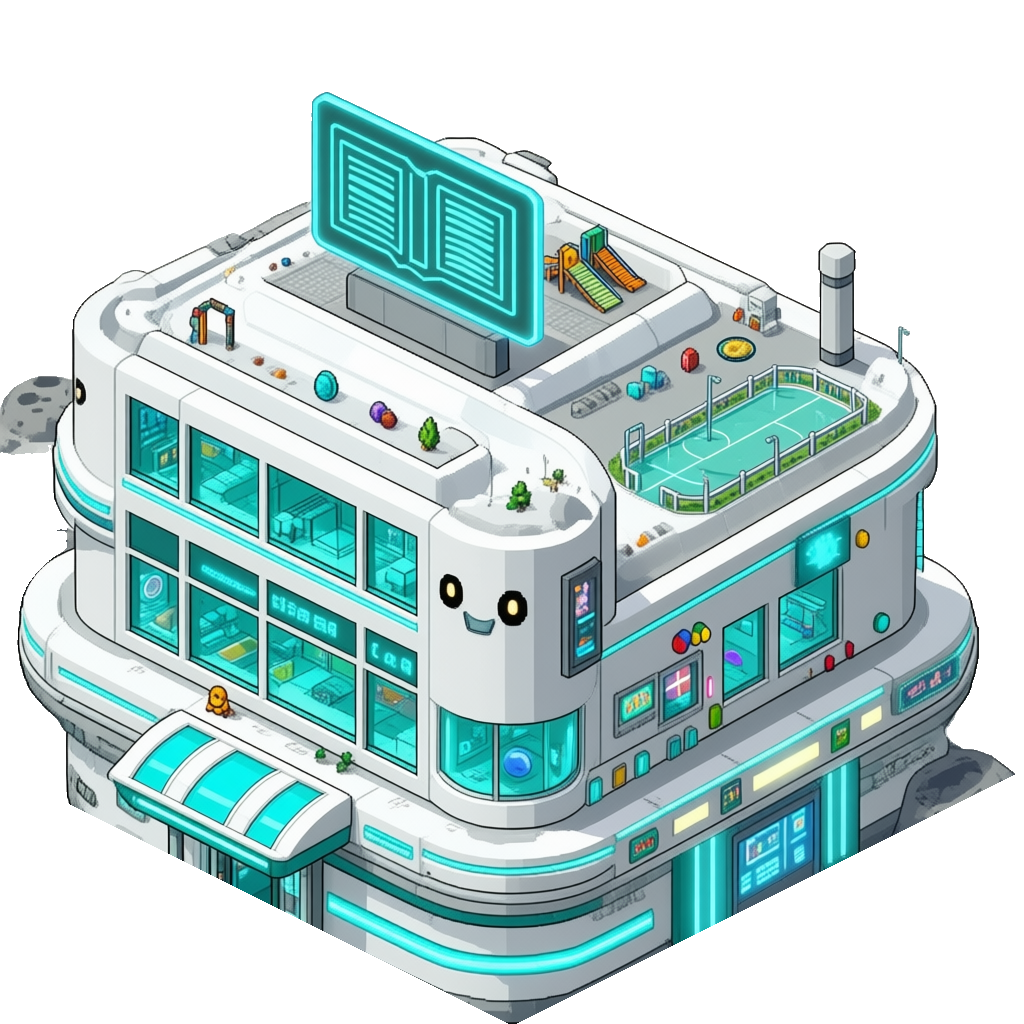
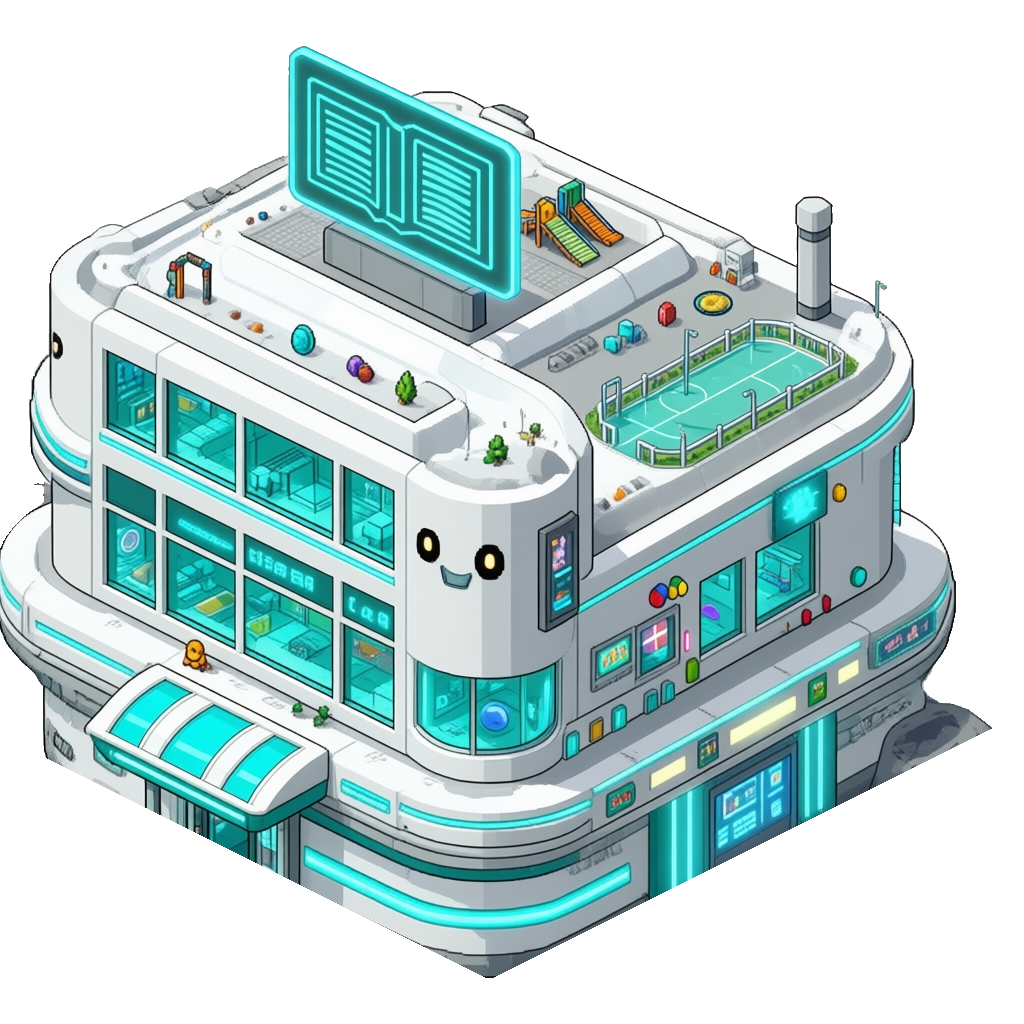
Add hover taxis, moon trains and magnet rails in space, and wider rails
The space taxi depot sends hover taxis, and the space train station sends
moon trains onto magnet rails: a dark guideway with a glowing blue line
along each track. Rails are now most of a square wide and trains about a
third bigger. Also converts the new space buildings and gives them names.

diff --git a/src/art/rails.js b/src/art/rails.js
@@ -1,17 +1,17 @@
-// Railway squares, drawn by code: a bed of gravel a little more than half a square wide down the middle of the
+// Railway squares, drawn by code: a bed of gravel most of a square wide (0.84) down the middle of the
 // square with two tracks on it, one for each direction (trains keep to the right, like cars): wooden sleepers and
 // two steel rails each. A bend between two sides that meet in a corner is a
 // quarter circle round that corner. On a level crossing there is no gravel: the rails sit in a concrete deck.
 import { Pix, tileUV } from './raster.js';
 import { hash2 } from '../rng.js';
 
-export const TRACK = 0.155; // the middle of each track is this far from the middle of the bed, in squares
-const BED = 0.32; // half the width of the gravel bed (so the bed is 0.64 wide)
-const TIE = 0.11; // half the length of a sleeper
-const GAUGE = 0.06; // the rails are this far either side of the middle of their track
-const RAIL = 0.018; // half the width of a rail
-const TIE_EVERY = 0.2; // a sleeper every 0.2 squares
-const TIE_W = 0.075;
+export const TRACK = 0.2; // the middle of each track is this far from the middle of the bed, in squares
+const BED = 0.42; // half the width of the gravel bed (so the bed is 0.84 wide)
+const TIE = 0.14; // half the length of a sleeper
+const GAUGE = 0.077; // the rails are this far either side of the middle of their track
+const RAIL = 0.021; // half the width of a rail
+const TIE_EVERY = 0.22; // a sleeper every 0.22 squares
+const TIE_W = 0.085;
 
 // Where each side's track meets the edge of the square (u runs down-right, v down-left).
 const PORT = { ne: [0.5, 0], se: [1, 0.5], sw: [0.5, 1], nw: [0, 0.5] };
@@ -109,6 +109,40 @@ export function genRail(mask, crossing = false) {
         const c = edge ? (h < 0.5 ? 0x6e6a64 : 0x77736c) : h < 0.25 ? 0x8d8880 : h < 0.6 ? 0x9a958c : h < 0.85 ? 0xa7a297 : 0x7f7a72;
         pix.set(px, py, c);
       }
+    }
+  }
+  return pix;
+}
+
+// The space theme's railway (src/themes/space.js): a magnet rail. A smooth dark guideway in panels instead of gravel
+// and sleepers, and for each direction a raised metal beam with a glowing blue line along its middle. Same layout
+// of tracks as genRail, so the trains run on it the same way. On a level crossing only the beams show, set in the road.
+export function genMagRail(mask, crossing = false) {
+  const pix = new Pix(128, 64);
+  const pieces = railPieces(mask);
+  const co = [];
+  const BEAM = 0.09; // half the width of a beam
+  for (let py = 0; py < 64; py++) {
+    for (let px = 0; px < 128; px++) {
+      const [u, v] = tileUV(px, py);
+      if (u < 0 || u >= 1 || v < 0 || v >= 1) continue;
+      let bed = Infinity;
+      let beam = Infinity; // how far from the middle of the nearest beam
+      let joint = false;
+      for (const [d, t] of pieceCoords(pieces, u, v, co)) {
+        bed = Math.min(bed, Math.abs(d));
+        if (mod(t, 0.25) < 0.012) joint = true;
+        for (const side of [-1, 1]) beam = Math.min(beam, Math.abs(d - side * TRACK));
+      }
+      if (bed >= BED) continue;
+      if (beam < 0.013) pix.set(px, py, 0xd8f8ff); // the bright middle of the blue line
+      else if (beam < 0.026) pix.set(px, py, 0x4fd8ff);
+      else if (beam < BEAM - 0.014) pix.set(px, py, crossing ? 0x9aa3b1 : 0xc9d0da); // the beam's top
+      else if (beam < BEAM) pix.set(px, py, 0x7c8594); // its edge
+      else if (crossing) continue; // the road shows between the beams
+      else if (bed > BED - 0.035) pix.set(px, py, 0x8c94a3); // the guideway's light rim
+      else if (beam < BEAM + 0.03) pix.set(px, py, 0x4fd8ff, 70); // blue glow on the guideway beside the beam
+      else pix.set(px, py, joint ? 0x2e323b : 0x3a3f4a);
     }
   }
   return pix;

diff --git a/src/themes/space.js b/src/themes/space.js
@@ -7,11 +7,12 @@
 //   beach     : false = no sand between the land and the lava on a new map
 //   dayNight  : false = always day: no clock, no night lights
 //   weather   : false = it never rains
-//   rail      : false = no railways in the Road menu
+//   rail      : false = no railways in the Road menu (space has them: magnet rails, src/art/rails.js genMagRail)
 //   disasters : the disasters in the Disaster menu that this theme doesn't have
 //
 // Vehicles: every car on the roads is a space hover car. The police, fire and hospital stations send rovers and
 // spaceplanes (like the city's cars and helicopters). Settings that only the space theme has:
+//   patrol.hover : the patrol flies over the road like the hover cars (the hover taxis)
 //   patrol.deliver : a menu (e.g. 'Production'): each trip drives to one of its buildings, stops there a moment
 //            and drives home; with none of them to reach, it drives around like any patrol (src/agents/Traffic.js)
 //   pads   : landing pads, [{ px, py }] in the picture's own pixels (the middle of each pad), and the ships that
@@ -33,7 +34,7 @@ export const SPACE = {
     beach: false,
     dayNight: false,
     weather: false,
-    rail: false,
+    rail: true,
     noDisasters: ['tsunami'],
   },
 
@@ -82,10 +83,30 @@ export const SPACE = {
     pizzashop: 'Pizza shop',
     souvenirstore: 'Souvenir store',
     spaceairport: 'Space airport',
+    taxidepot: 'Taxi depot',
+    trainstation: 'Train station',
+    parkinglot: 'Parking lot',
+    eiffeltower: 'Eiffel Tower',
+    generalstatue: 'General statue',
+    japaneseshrine: 'Japanese shrine',
+    japanesetemple: 'Japanese temple',
+    statueofliberty: 'Statue of Liberty',
+    cloningfacility: 'Cloning facility',
+    electricitygenerator: 'Electricity generator',
+    wasterecycling: 'Waste recycling',
+    rollercoaster: 'Roller coaster',
+    carseller: 'Car seller',
+    clothingstore: 'Clothing store',
+    megamall: 'Mega mall',
+    movietheater: 'Movie theater',
   },
 
   buildings: {
     mountain: { lights: false },
+    // hover taxis, like the city's taxi center (hover: they fly over the road like the hover cars, src/agents/Traffic.js)
+    taxidepot: { patrol: { vehicle: 'hovertaxi', count: 3, rest: [3000, 8000], speed: 1.1, hover: true } },
+    // moon trains on the magnet rails touching it, like the city's train stations (src/agents/Trains.js)
+    trainstation: { train: 'moon' },
     policestation: {
       patrol: { vehicle: 'rover_police', count: 2, rest: [4000, 9000] },
       heli: { vehicle: 'spaceplane_police', pad: { px: 162, py: 143 }, job: 'spotlight', rest: [25000, 50000] },

diff --git a/src/data/vehicles.js b/src/data/vehicles.js
@@ -51,15 +51,18 @@ export const VEHICLES = {
   // the hover car: some of the traffic flies once the city has a Future lab
   hovercar: { sheet: 'hovercar-sheet.png', width: 56 },
   // trains: an engine and its wagons, one kind for each kind of train station
-  train_us_engine: { sheet: 'ustrain-engine-sheet.png', width: 88 },
-  train_us_wagon: { sheet: 'ustrain-wagon-sheet.png', width: 86 },
-  train_eu_engine: { sheet: 'eurotrain-engine-sheet.png', width: 88 },
-  train_eu_wagon: { sheet: 'eurotrain-wagon-sheet.png', width: 86 },
-  train_jp_engine: { sheet: 'bullettrain-engine-sheet.png', width: 88 },
-  train_jp_wagon: { sheet: 'bullettrain-wagon-sheet.png', width: 86 },
+  train_us_engine: { sheet: 'ustrain-engine-sheet.png', width: 114 },
+  train_us_wagon: { sheet: 'ustrain-wagon-sheet.png', width: 112 },
+  train_eu_engine: { sheet: 'eurotrain-engine-sheet.png', width: 114 },
+  train_eu_wagon: { sheet: 'eurotrain-wagon-sheet.png', width: 112 },
+  train_jp_engine: { sheet: 'bullettrain-engine-sheet.png', width: 114 },
+  train_jp_wagon: { sheet: 'bullettrain-wagon-sheet.png', width: 112 },
+  train_moon_engine: { sheet: 'moontrain-engine-sheet.png', width: 114 }, // the space train station's
+  train_moon_wagon: { sheet: 'moontrain-wagon-sheet.png', width: 112 },
   // space (src/themes/space.js): the hover cars on the roads, the police, fire and hospital rovers and spaceplanes,
   // the space airport's ships (they land straight down on its pads), and the military's
   space_hovercar: { sheet: 'space-hovercar-sheet.png', width: 56 },
+  hovertaxi: { sheet: 'hovertaxi-sheet.png', width: 56 }, // the taxi depot's
   rover: { sheet: 'rover-sheet.png', width: 64 },
   rover_police: { sheet: 'rover-sheet-police.png', width: 64 },
   rover_fire: { sheet: 'rover-sheet-fire.png', width: 64 },

diff --git a/src/agents/Traffic.js b/src/agents/Traffic.js
@@ -215,14 +215,19 @@ export class Traffic {
     const id = hover ? this.hoverId : this.carIds.length ? pick(this.carIds) : null;
     const car = this.makeCar('civ', id, pick(this.variants), i + 0.5, j + 0.5, true, SPEED.car * rand(0.85, 1.15) * (hover ? 1.3 : 1));
     if (hover) {
-      car.hover = true;
+      this.makeHover(car);
       car.asCar = asCar;
-      car.bob = Math.random() * Math.PI * 2;
-      car.shadow = vehicleShadow(this.scene, car.v);
     }
     car.cur = [i, j];
     car.heading = null;
     return car;
+  }
+
+  // A car that flies over the road (drawn up in the air with a shadow under it, see render).
+  makeHover(car) {
+    car.hover = true;
+    car.bob = Math.random() * Math.PI * 2;
+    car.shadow = vehicleShadow(this.scene, car.v);
   }
 
   // Where a building's vehicles come and go: its garage, or else its door.
@@ -283,6 +288,7 @@ export class Traffic {
     if (st.p.deliver && this.spawnDelivery(st, slot, id, speed)) return true;
     const car = this.leave('service', st.b, id, speed);
     if (!car) return false;
+    if (st.p.hover) this.makeHover(car); // the space taxis
     car.slot = st.slots.indexOf(slot);
     car.mode = 'patrol';
     car.steps = 0;

diff --git a/src/world/GroundView.js b/src/world/GroundView.js
@@ -2,7 +2,7 @@ import { DEPTH, GROUND, GROUND_NAMES, HW, HH, SIDES, SIDE_LIST } from '../consta
 import { toGrid, viewRect } from '../iso.js';
 import { genShores, SHORE_KINDS } from '../art/placeholders.js';
 import { addPix } from '../scenes/BootScene.js';
-import { genRail } from '../art/rails.js';
+import { genRail, genMagRail } from '../art/rails.js';
 
 // Draws only the squares that are on screen (ground, shore edges, roads),
 // reusing a pool of images. A 100 x 100 map would otherwise be ~15,000 images.
@@ -91,8 +91,8 @@ export class GroundView {
 
   // The picture of a railway square with rail neighbours mask (crossing: it lies across a road), made when first needed.
   railKey(mask, crossing) {
-    const key = `rail_${mask}${crossing ? 'x' : ''}`;
-    if (!this.scene.textures.exists(key)) addPix(this.scene, key, genRail(mask, crossing));
+    const key = `${this.space ? 'maglev' : 'rail'}_${mask}${crossing ? 'x' : ''}`; // space: a magnet rail
+    if (!this.scene.textures.exists(key)) addPix(this.scene, key, (this.space ? genMagRail : genRail)(mask, crossing));
     return key;
   }
 

diff --git a/README.md b/README.md
@@ -40,7 +40,9 @@ give the city a new name.
 The ground is moon rock with lava round it instead of water (lava works like water: nothing is built on it),
 and Plot paints moon rock, lava or white pavement. Roads have a blue neon strip and blue lights on the curbs,
 people wear astronaut helmets, and the sky is black with twinkling stars. It is always day: no clock, no
-night lights and no rain. There is no Rail and no Tsunami.
+night lights and no rain. There is no Tsunami. Rails are magnet rails: a dark guideway with a glowing blue
+line along each track; a space train station sends moon trains onto them like the city's stations. The taxi depot
+sends 3 hover taxis that fly over the roads like the city's taxis.
 
 Space vehicles: every car on the roads is a space hover car. The police station, hospital and fire station send
 rovers out on the roads and keep a spaceplane on the roof, doing what the city's cars and helicopters do (the fire
@@ -141,7 +143,7 @@ until 🔧 Repair. Ruins can't be moved, but 🚜 Remove clears them.
 What moves on its own:
 - People walk out of doors, use sidewalks (or cut across grass), and walk into other buildings.
 - Cars drive on the right-hand lane of every road and queue behind each other.
-- Rails are a double track (a little more than half a square wide) down the middle of the squares, curving round
+- Rails are a double track (most of a square wide) down the middle of the squares, curving round
   corners: one track for each direction. A train station (US, EU or JP, in Transport) next to the rails sends trains
   of its own kind onto that rail network: an engine and two wagons. Trains keep to the right-hand track (like cars),
   so trains going opposite ways pass each other. They stop at every station they pass, people get off and on, and
